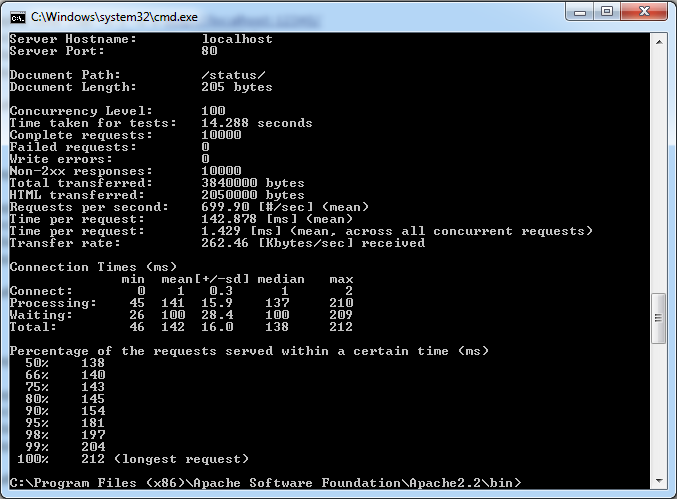
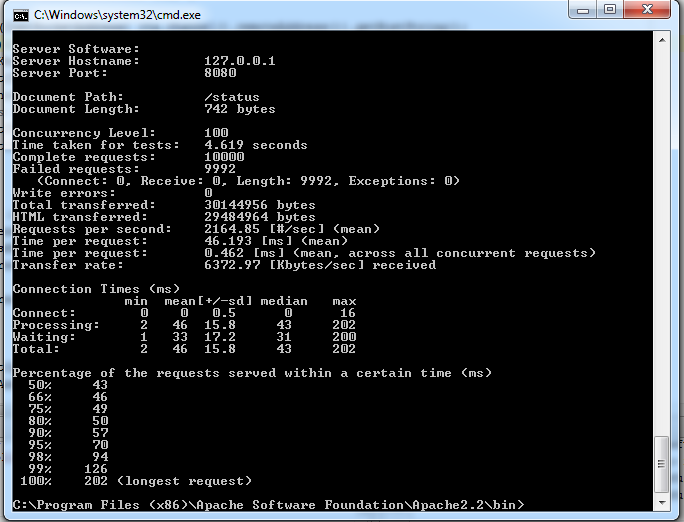
issues fixed

Changed region(s): [[0.0, 0.0, 1.0, 1.0]]

diff --git a/src/main/java/netty/bess/stat/StatisticsController.java b/src/main/java/netty/bess/stat/StatisticsController.java
@@ -31,7 +31,6 @@ public class StatisticsController {
         if (logRequestQue.size() < 16) {
             logRequestQue.addLast(new RequestData(getClientIp(ctx), url, ch.trafficCounter().cumulativeWrittenBytes(),
                     ch.trafficCounter().cumulativeReadBytes(), ch.trafficCounter().lastWriteThroughput()));
-            System.out.println(ch.trafficCounter().lastWriteThroughput());
         } else {
             logRequestQue.removeFirst();
             logRequestQue.addLast(new RequestData(getClientIp(ctx),url, ch.trafficCounter().cumulativeWrittenBytes(),
@@ -47,14 +46,15 @@ public class StatisticsController {
     //this method is called in order to count every request
     public void addToIpMap(ChannelHandlerContext ctx) {
 
-        String clientIP = getClientIp(ctx);
-
+        String clientIP = ((InetSocketAddress) ctx.channel().remoteAddress()).getHostString();
+        synchronized (ipMap){
         if (!ipMap.containsKey(clientIP)) {//if IP is new --> put it in map with default count 1 and current time
             ipMap.put(clientIP, new IpData());
             uniqueIpCount.incrementAndGet();
         } else { // if IP is not new --> update time and increment count
             ipMap.get(clientIP).incrementCount();
             ipMap.get(clientIP).updateTime(); // in order to know the time of last request
+        }
         }
     }
     //this method is called in RedirectHandler in order to count redirection on each url

diff --git a/src/main/java/netty/bess/handlers/StatusHandler.java b/src/main/java/netty/bess/handlers/StatusHandler.java
@@ -1,6 +1,7 @@
 package netty.bess.handlers;
 
 import io.netty.buffer.Unpooled;
+import io.netty.channel.ChannelFutureListener;
 import io.netty.channel.ChannelHandlerContext;
 import io.netty.channel.SimpleChannelInboundHandler;
 import io.netty.handler.codec.http.DefaultFullHttpResponse;
@@ -42,7 +43,7 @@ public class StatusHandler extends SimpleChannelInboundHandler<HttpRequest> {
                     Unpooled.unreleasableBuffer(Unpooled.copiedBuffer(responseContent.toString(), CharsetUtil.UTF_8)));
             response.headers().set(CONTENT_TYPE, "text/html");
             response.headers().set(CONTENT_LENGTH, response.content().readableBytes());
-            ctx.writeAndFlush(response);
+            ctx.writeAndFlush(response).addListener(ChannelFutureListener.CLOSE);
             controller.addToConnectionDeque(ctx, url);
         } else {
             ctx.fireChannelRead(req);

diff --git a/src/main/java/netty/bess/handlers/HelloHandler.java b/src/main/java/netty/bess/handlers/HelloHandler.java
@@ -1,6 +1,7 @@
 package netty.bess.handlers;
 
 import io.netty.buffer.Unpooled;
+import io.netty.channel.ChannelFutureListener;
 import io.netty.channel.ChannelHandlerContext;
 import io.netty.channel.SimpleChannelInboundHandler;
 import io.netty.channel.group.ChannelGroup;
@@ -40,7 +41,7 @@ public class HelloHandler extends SimpleChannelInboundHandler<HttpRequest> {
             Unpooled.unreleasableBuffer(Unpooled.copiedBuffer(responseContent, CharsetUtil.UTF_8)));
             response.headers().set(CONTENT_TYPE, "text/html");
             response.headers().set(CONTENT_LENGTH, response.content().readableBytes());
-            ctx.writeAndFlush(response);
+            ctx.writeAndFlush(response).addListener(ChannelFutureListener.CLOSE);;
             String url = req.getUri();
             controller.IncreaseCount();
             controller.addToIpMap(ctx);

diff --git a/src/main/java/netty/bess/stat/IpData.java b/src/main/java/netty/bess/stat/IpData.java
@@ -3,20 +3,21 @@ package netty.bess.stat;
 
 import java.text.SimpleDateFormat;
 import java.util.Date;
+import java.util.concurrent.atomic.AtomicInteger;
 
 public class IpData {
 
-    private int count;
+    private AtomicInteger count;
     private String time;
 
 
     public IpData() {
         this.time=CurrentTimeStamp();
-        count=1;
+        count=new AtomicInteger(1);
     }
 
     public void incrementCount ()  {
-        count++;
+        count.incrementAndGet();
     }
 
     public void updateTime() {
@@ -30,7 +31,7 @@ public class IpData {
         return formatCurrentTime;
     }
 
-    public int getCount() {
+    public AtomicInteger getCount() {
         return count;
     }
 

diff --git a/src/main/java/netty/bess/handlers/RedirectHandler.java b/src/main/java/netty/bess/handlers/RedirectHandler.java
@@ -12,7 +12,7 @@ import static io.netty.handler.codec.http.HttpResponseStatus.*;
 import static io.netty.handler.codec.http.HttpVersion.*;
 
 /**
- * redirect requests which contains "redirect?url="
+ * redirect requests which contain "redirect?url="
  * Created by Bess on 23.09.14.
  */
 public class RedirectHandler extends SimpleChannelInboundHandler<HttpRequest> {
